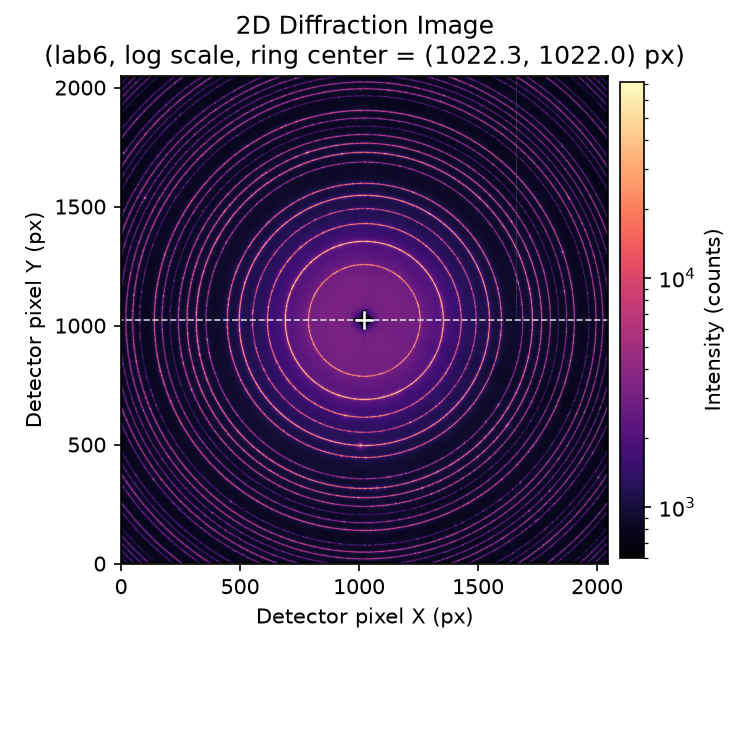
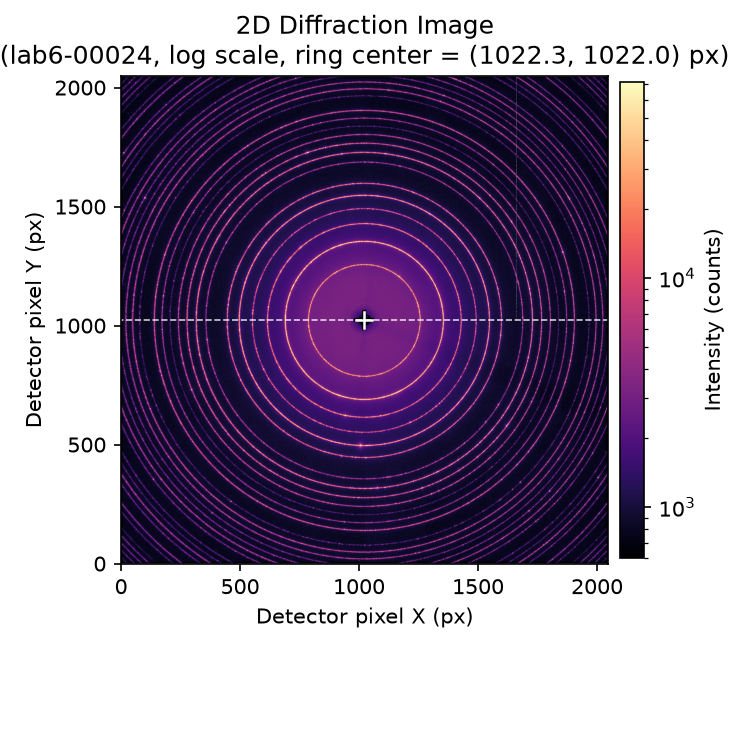
docs: the lab6 showcase plots re-drawn on the current engine
- diffraction/calibrated/waterfall re-generated by their CLI scripts with
  today's code: the 2D view carries the current beam centre in its title,
  the calibrated pattern the current 1595.8 mm refinement, and the
  waterfall the post-2026-10-02 row-step rule (a no-op on this uniform
  sample — verified against the old render)
- the profile came out byte-identical (that plot is fully deterministic),
  so only its English caption changes: it is a horizontal slice through
  the centre, not a radial average — "Radial ..." was a misnomer

Changed region(s): [[0.0, 0.0613, 0.9813, 0.092]]

diff --git a/docs/NOTES.md b/docs/NOTES.md
@@ -30,7 +30,7 @@ python scripts/view_diffraction.py --file data/xxx.tif --angle 0 --outdir output
 - `--angle`: profile angle in degrees (default 0)
 - `--outdir`: PNG output directory (default: the project's `outputs/` folder)
 
-![Radial intensity profile through the beam centre](../showcase/lab6/radial_profile.png)
+![Intensity profile through the beam centre (horizontal slice)](../showcase/lab6/radial_profile.png)
 
 </details>
 
